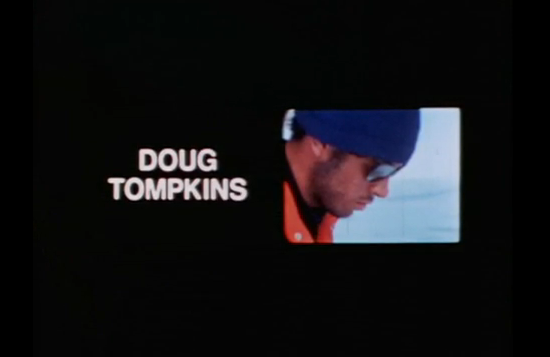
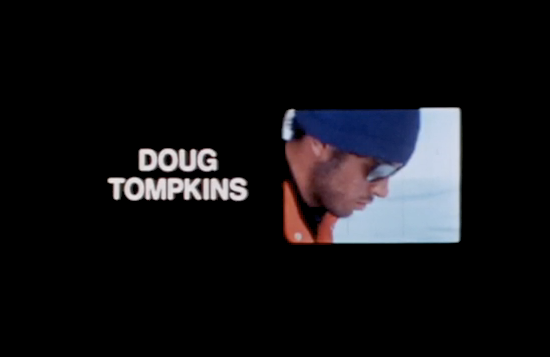
2023-10-05

Changed region(s): [[0.4945, 0.5238, 0.8345, 0.6779], [0.7418, 0.3081, 0.7727, 0.3697], [0.68, 0.4622, 0.7109, 0.493]]

diff --git a/index.html b/index.html
@@ -9,8 +9,8 @@
       content="네이버 메인에서 다양한 정보와 유용한 컨텐츠를 만나 보세요"
     />
     <meta property="og:type" content="website" />
-    <meta property="og:title" content="태현이 포트폴리오" />
-    <meta property="og:description" content="태현이 포트폴리오" />
+    <meta property="og:title" content="NortFaceHistory" />
+    <meta property="og:description" content="NortFaceHistory" />
     <meta
       property="og:image"
       content="http://www.mysite.com/article/article1_featured_image.jpg"
@@ -20,13 +20,13 @@
       content="http://www.mysite.com/article/article1.html"
     />
     <meta name="twitter:card" content="summary" />
-    <meta name="twitter:title" content="태현이 포트폴리오" />
-    <meta name="twitter:description" content="태현이 포트폴리오" />
+    <meta name="twitter:title" content="NortFaceHistory" />
+    <meta name="twitter:description" content="NortFaceHistory" />
     <meta
       name="twitter:image"
       content="http://www.mysite.com/article/article1.html"
     />
-    <meta name="twitter:domain" content="태현이 포트폴리오" />
+    <meta name="twitter:domain" content="NortFaceHistory" />
     <link rel="shortcut icon" type="image/x-icon" href="/favicon.ico" />
     <link
       href="https://fonts.googleapis.com/css2?family=Noto+Sans+KR:wght@100;300;400;500;700;900&display=swap"
@@ -108,7 +108,7 @@
             </div>
           </div>
         </section>
-        <section class="part1">
+        <section id="intro" class="part1">
           <div class="intro">
             <h2>
               <div>
@@ -147,7 +147,22 @@
         </section>
         <section class="part2">
           <div class="post">
+            <div class="inner">
+              <div class="founder">
+                <div class="founder-img" data-aos="fade-right">
+                  <img src="./images/Doug.png" alt="Doug" />
+                  <img src="./images/Yvon.png" alt="Yvon" />
+                </div>
+                <div class="cfmgs" data-aos="fade-left">
+                  <img
+                    src="./images/California_Mountaineering_Guide_Service.jpg"
+                    alt=""
+                  />
+                </div>
+              </div>
+            </div>
             <div
+              class="innovation"
               data-aos="fade-up"
               data-aos-anchor-placement="top-bottom"
               date-aod-delai="700"
@@ -163,12 +178,7 @@
               <div class="start-img">
                 <img src="./images/DouglasTompkins.png" alt="DouglasTompkins" />
               </div>
-              <div
-                class="start-history"
-                data-aos="zoom-in"
-                date-aod-delai="700"
-                data-aos-duration="1000"
-              >
+              <div class="start-history">
                 <span>History</span>
               </div>
             </div>

diff --git a/dist/css/comm.css b/dist/css/comm.css
@@ -326,6 +326,18 @@ legend {
 #main .cont-p .curtain img {
   display: block;
   width: 25%;
+  animation: blinking 2.5s alternate infinite;
+}
+@keyframes blinking {
+  from {
+    box-shadow: 0 0 5px 5px rgb(255, 0, 0);
+  }
+  50% {
+    box-shadow: 0 0 5px 5px rgb(200, 0, 0);
+  }
+  to {
+    box-shadow: 0 0 5px 5px rgb(10, 10, 10);
+  }
 }
 #main .cont-p #cont-titolo h2 {
   font-size: 300px;
@@ -372,8 +384,22 @@ legend {
 #main .part2 {
   padding-top: 150px;
 }
-#main .part2 .post img {
+#main .part2 .innovation {
+  padding-top: 150px;
+}
+#main .part2 .innovation img {
   width: 100%;
+}
+#main .part2 .post .founder {
+  display: flex;
+  justify-content: space-between;
+}
+#main .part2 .post .founder .founder-img {
+  display: flex;
+  flex-direction: column;
+}
+#main .part2 .post .founder .cfmgs {
+  margin-right: 11%;
 }
 #main .part3 {
   padding-top: 150px;

diff --git a/dist/scss/comm.scss b/dist/scss/comm.scss
@@ -37,6 +37,18 @@
       img {
         display: block;
         width: 25%;
+        animation: blinking 2.5s alternate infinite;
+      }
+      @keyframes blinking {
+        from {
+          box-shadow: 0 0 5px 5px rgb(255, 0, 0);
+        }
+        50% {
+          box-shadow: 0 0 5px 5px rgb(200, 0, 0);
+        }
+        to {
+          box-shadow: 0 0 5px 5px rgb(10, 10, 10);
+        }
       }
     }
     #cont-titolo {
@@ -89,9 +101,23 @@
   }
   .part2 {
     padding-top: 150px;
-    .post {
+    .innovation {
+      padding-top: 150px;
       img {
         width: 100%;
+      }
+    }
+    .post {
+      .founder {
+        display: flex;
+        justify-content: space-between;
+        .founder-img {
+          display: flex;
+          flex-direction: column;
+        }
+        .cfmgs {
+          margin-right: 11%;
+        }
       }
     }
   }
